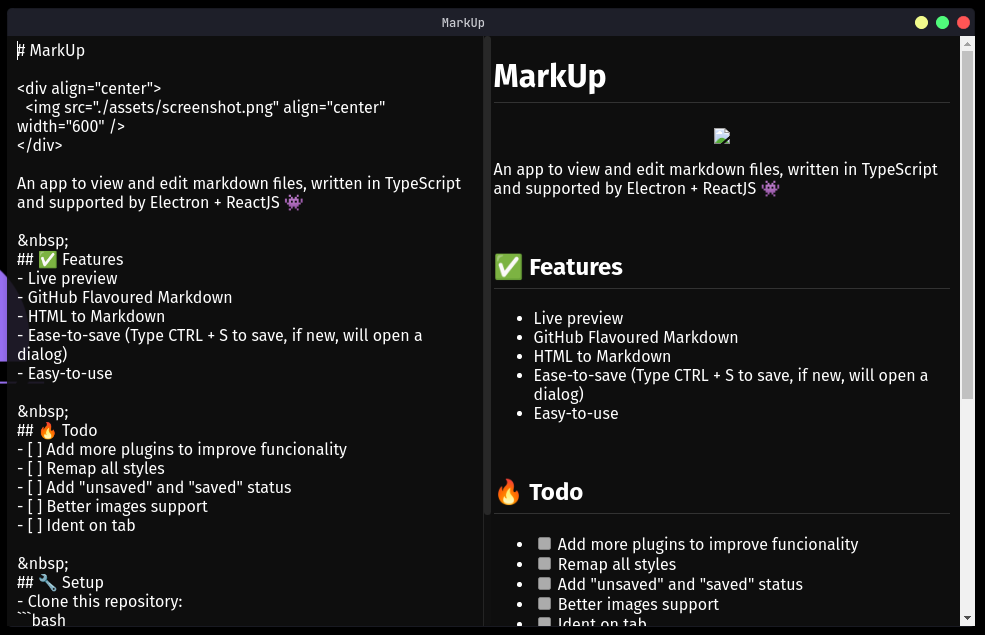
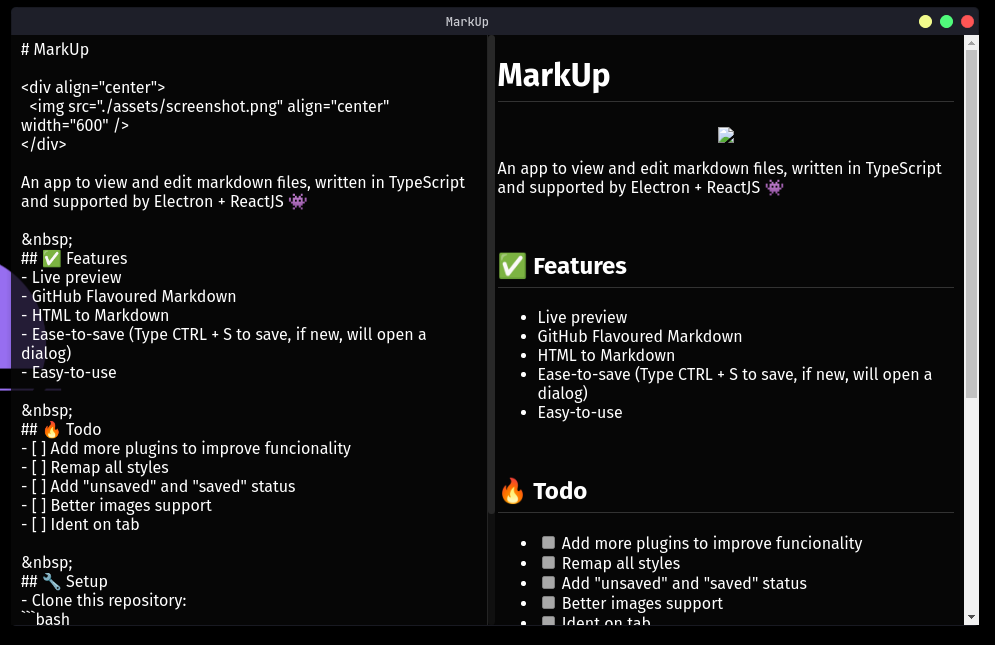
Release v1.0.1

diff --git a/public/index.html b/public/index.html
@@ -5,7 +5,7 @@
         <meta http-equiv="X-UA-Compatible" content="IE=edge">
         <meta name="viewport" content="width=device-width, initial-scale=1.0">
     </head>
-    <body style="background-color: rgba(16, 16, 16, 0.9)">
+    <body style="background-color: rgba(8, 8, 8, 0.8)">
         <div id="root"></div>
     </body>
 </html>
